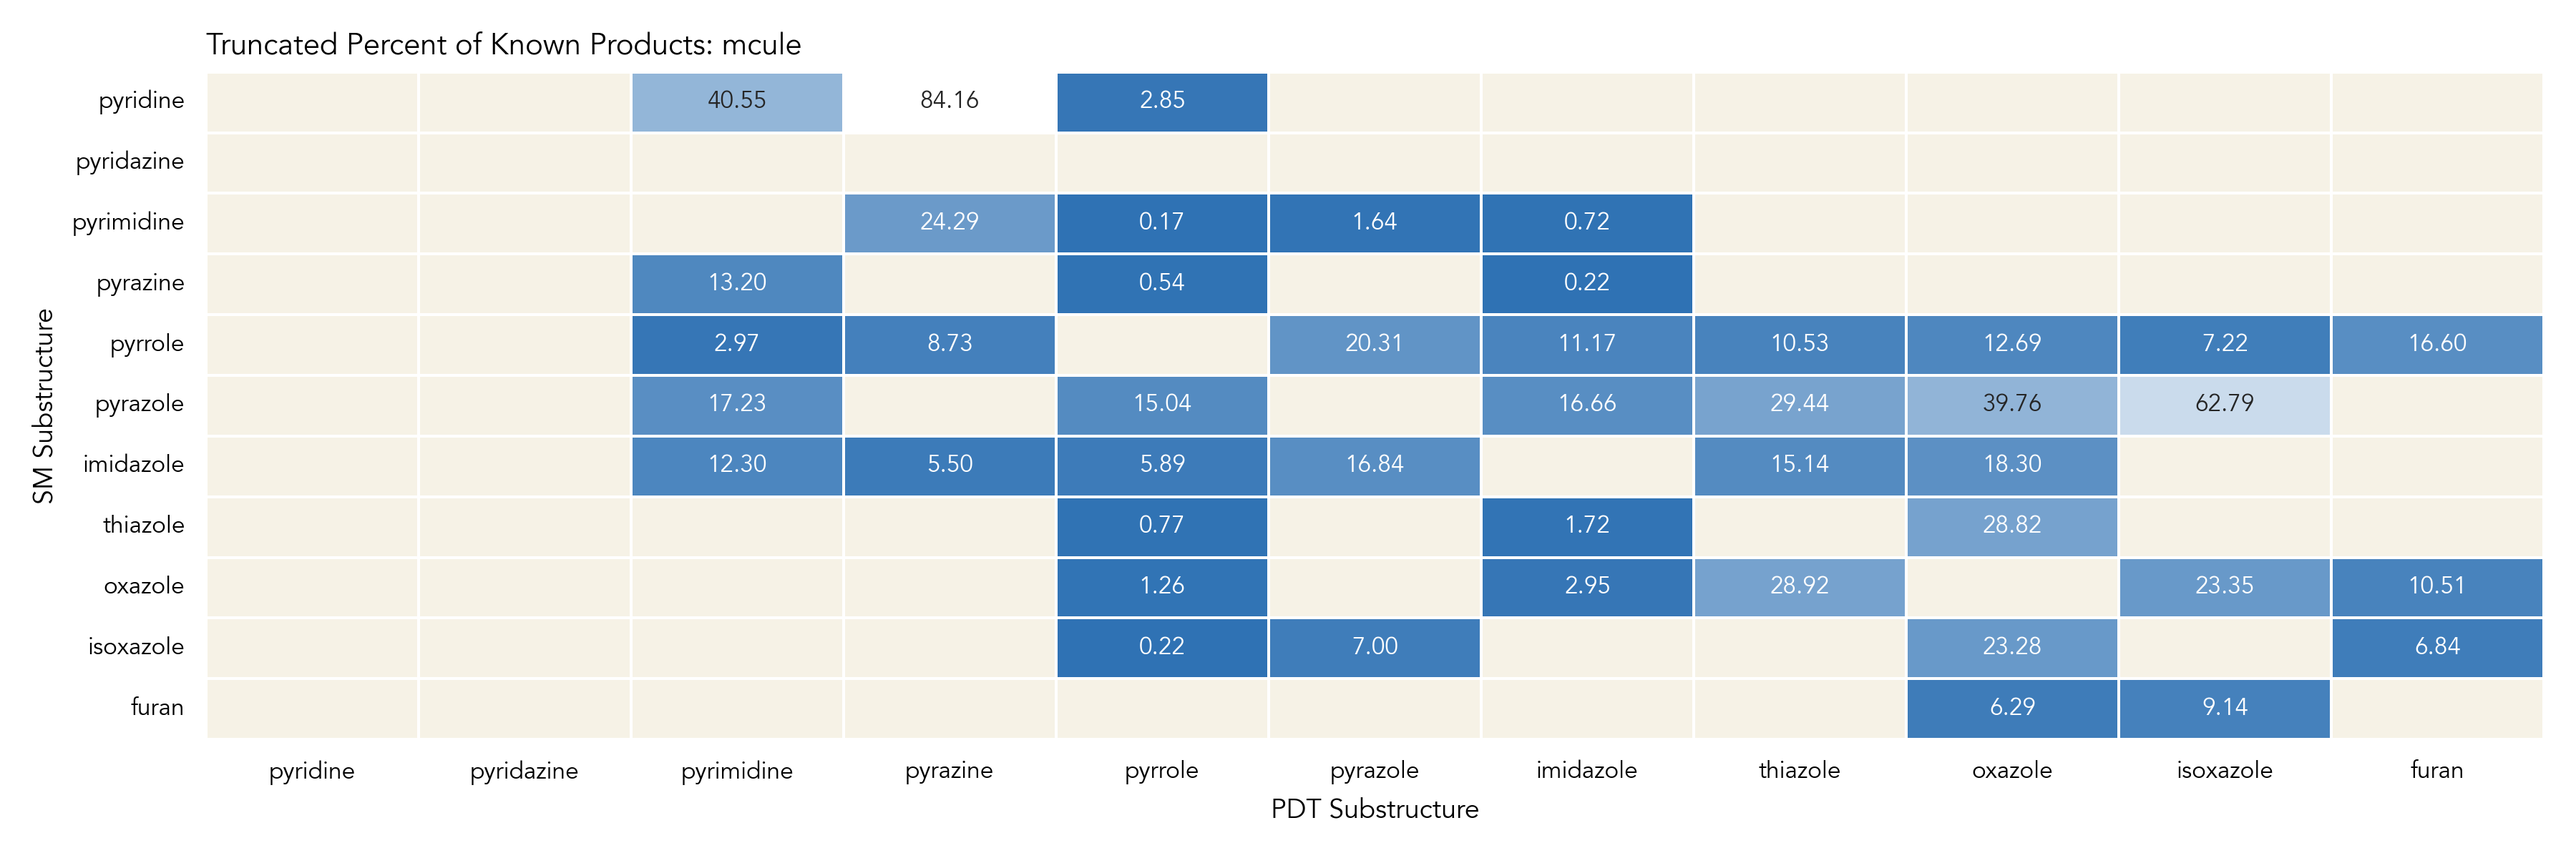
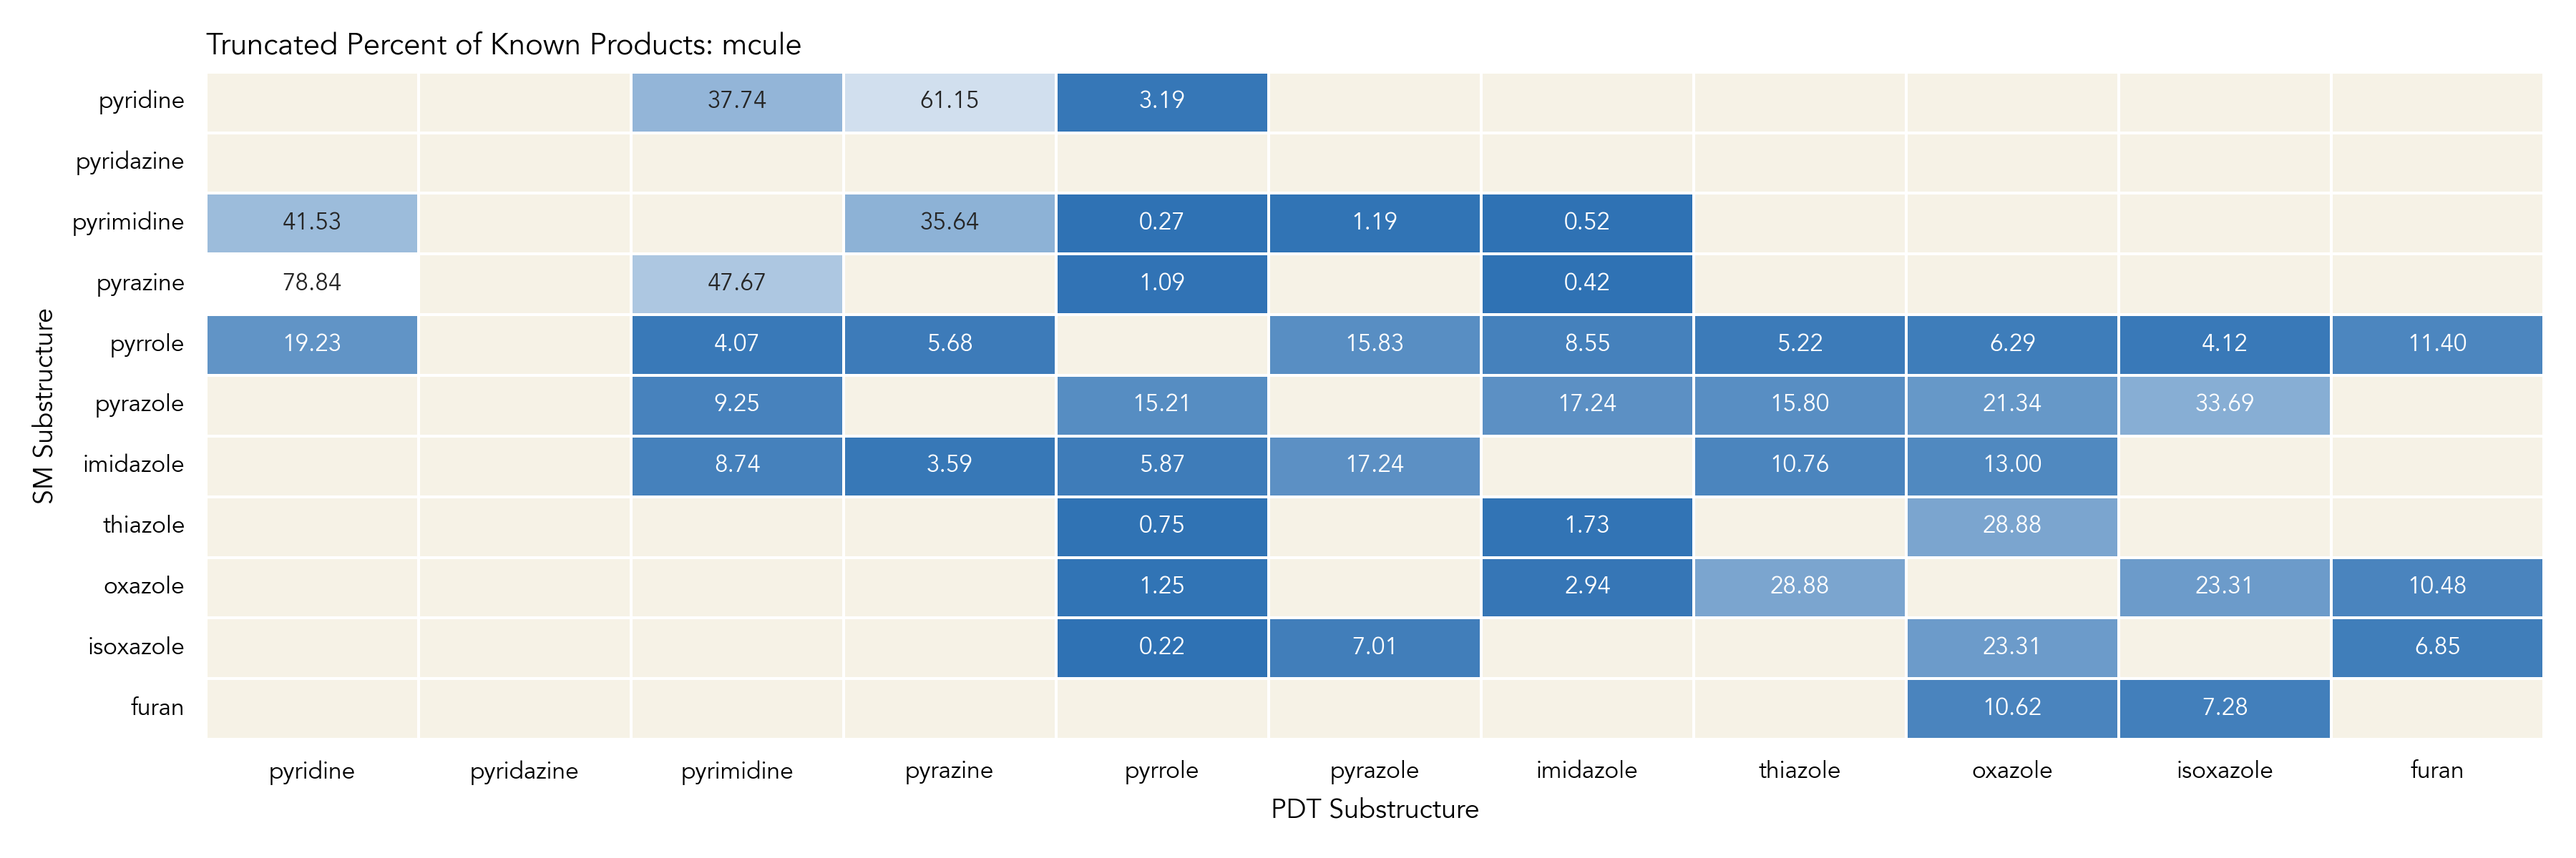
added more analysis

diff --git a/databases/results/max_common_dfs/heatmap_from_csv.py b/databases/results/max_common_dfs/heatmap_from_csv.py
@@ -28,10 +28,9 @@ def GenerateHeatmap(dataframe, title, filename, directory):
     plt.figure(figsize=(12, 4))
 
     # Generate a custom color map
-    # colors = ["#2F72B4", "#F6F2E6"]
-    # cmap = LinearSegmentedColormap.from_list("custom_cmap", colors)
-    # cmap.set_bad(color='#F6F2E6')  # Set color for missing data (None)
-    cmap = 'viridis'
+    colors = ["#2F72B4", "#F6F2E6"]
+    cmap = LinearSegmentedColormap.from_list("custom_cmap", colors)
+    cmap.set_bad(color='#F6F2E6')  # Set color for missing data (None)
 
     # Create the heatmap
     ax = sns.heatmap(dataframe, 

diff --git a/databases/results/tabulation/tabulate_10lowest.py b/databases/results/tabulation/tabulate_10lowest.py
@@ -7,9 +7,9 @@ os.chdir(os.path.dirname(os.path.abspath(__file__)))
 
 # Step 1: Read the CSV file into a DataFrame
 directory = 'selected_dfs_analysis'
-csv = 'percent_common_df_ChEMBL_select.csv'
-library = 'ChEMBL'
-df = pd.read_csv(f'../../results/{directory}/{csv}', index_col=0)
+csv = 'normalized_common_df_enamine.csv'
+library = 'enamine'
+df = pd.read_csv(f'../../results/{directory}/selected_heatmaps/normalized_dfs/{csv}', index_col=0)
 
 # Initialize lists to store the results
 sm_substructures = []

diff --git a/databases/results/tabulation/tabulate.py b/databases/results/tabulation/tabulate.py
@@ -6,9 +6,9 @@ import os
 os.chdir(os.path.dirname(os.path.abspath(__file__)))
 
 # Step 1: Read the CSV file into a DataFrame
-directory = 'percent_common_dfs'
-csv = 'percent_common_df_ChEMBL.csv'
-library = 'ChEMBL'
+directory = 'normalized_common_dfs'
+csv = 'normalized_common_df_Mcule.csv'
+library = 'Mcule'
 df = pd.read_csv(f'../../results/{directory}/{csv}', index_col=0)
 
 # Initialize lists to store the results
